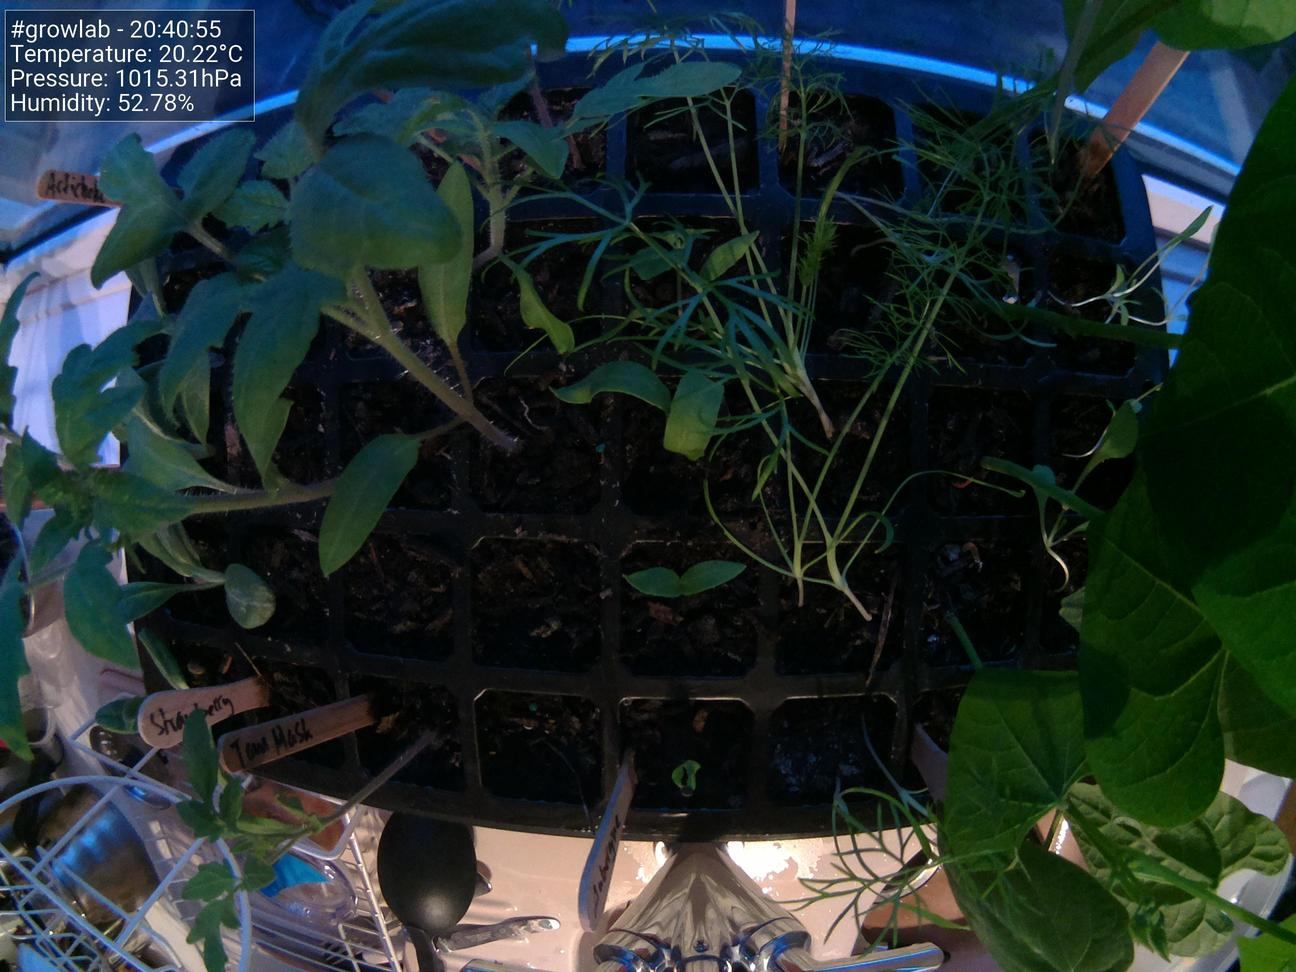
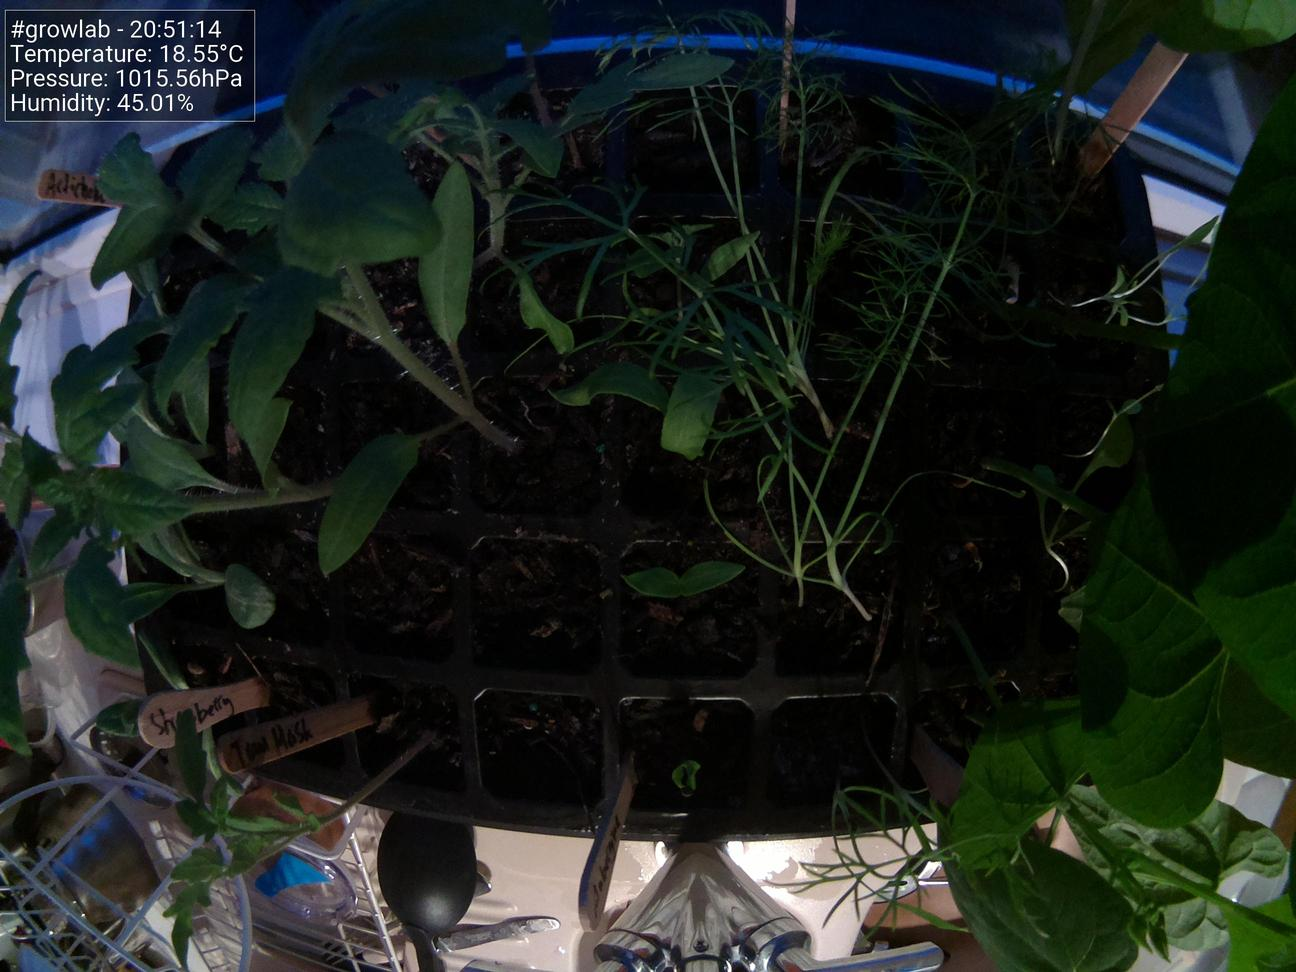
Update images at Fri 30 Apr 20:51:26 BST 2021

diff --git a/docs/index.html b/docs/index.html
@@ -38,19 +38,19 @@
                     <tbody>
                         <tr>
                             <td>Time</td>
-                            <td>20:40:55</td>
+                            <td>20:51:14</td>
                         </tr>
                         <tr>
                             <td>Temperature</td>
-                            <td>20.22°C</td>
+                            <td>18.55°C</td>
                         </tr>
                         <tr>
                             <td>Humidity</td>
-                            <td>52.78%</td>
+                            <td>45.01%</td>
                         </tr>
                         <tr>
                             <td>Pressure</td>
-                            <td>1015.31hPa</td>
+                            <td>1015.56hPa</td>
                         </tr>
                     </tbody>
                 </table>
@@ -58,7 +58,7 @@
 
                 <h5>Latest image</h5>
 		<div style="width: 85%;">
-	                <img class="figure-img img-fluid rounded" src="./preview.jpg?uid=1619811666.394121">
+	                <img class="figure-img img-fluid rounded" src="./preview.jpg?uid=1619812285.7697153">
 		</div>
             </div>
         </div>
